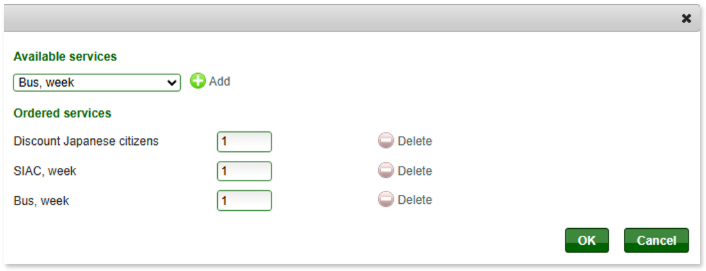
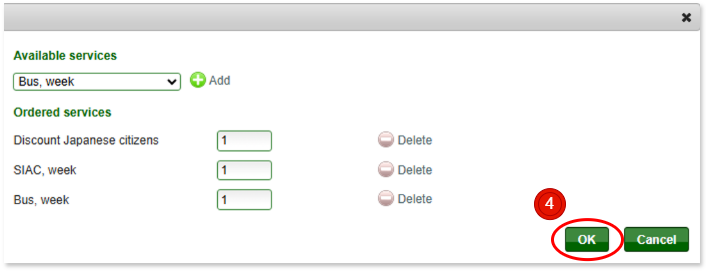
オプション追加のボタン操作順序修正

diff --git a/content/ja/travel/accommodation_directory.md b/content/ja/travel/accommodation_directory.md
@@ -37,16 +37,9 @@ modules: ["simple-datatables"]
 
 {{< accordion-item title="ホテルまたは旅館" show="false" >}}
 
-WMOC開催地域とその周辺には、様々な宿泊施設があります。
-
-まず、WMOC開催自治体に宿泊する方法があります。
-
-各自治体のウェブサイトをご覧ください。
+WMOC開催地域とその周辺には、様々な宿泊施設があります。まず、WMOC開催自治体に宿泊する方法があります。各自治体のウェブサイトをご覧ください。
 
 洋風ホテルや旅館は限られていますが、素敵な和風旅館や個人経営の民宿も見つかるかもしれません。
-
-一部の宿泊施設からは、有料の公式バスが運行しています。
-
 
 * **上町（スプリント、ミドルファイナル）**
 
@@ -60,18 +53,11 @@ https://visityabu.jp/
 
 https://www.kamikawa-navi.jp/en/
 
-2つ目の選択肢は、WMOC会場から15～30kmの距離にある、様々な和風宿泊施設が揃う有名な温泉地、**城崎温泉**です。
+2つ目の選択肢は、WMOC会場から15～30kmの距離にある、様々な和風宿泊施設が揃う有名な温泉地、**城崎温泉**です。城崎温泉には、洋風ホテルやベッド付きの和風旅館もあります。3つ目の選択肢は、WMOC会場から1.5～2時間の距離にある、様々なランクのホテルが多数ある地域の中核都市、**鳥取**または**姫路**に宿泊することです。
 
-城崎温泉には、洋風ホテルやベッド付きの和風旅館もあります。
+城崎温泉（2つ目の選択肢）、鳥取駅、姫路駅（3つ目の選択肢）から会場までのバス運行を予定しています。詳細は近日中に発表いたします。
 
-3つ目の選択肢は、WMOC会場から1.5～2時間の距離にある、様々なランクのホテルが多数ある地域の中核都市、**鳥取**または**姫路**に宿泊することです。
-
-城崎温泉（2つ目の選択肢）、鳥取駅、姫路駅（3つ目の選択肢）から会場までのバス運行を予定しています。
-
-詳細は近日中に発表いたします。
-
-WMOC 2027でお会いできることを楽しみにしております。
-ご質問等ございましたら、お気軽に**contact@wmoc2027.jp**までお問い合わせください。
+WMOC 2027でお会いできることを楽しみにしております。ご質問等ございましたら、お気軽に**contact@wmoc2027.jp**までお問い合わせください。
 
 > [!tip]
 > 旅館に関する詳細はこちら
@@ -110,12 +96,8 @@ https://travel.rakuten.com/
 
 >【注意】
 > この地域には洋風ホテルが限られています。
-> 大型ホテルは団体客で既に予約されている場合があります。姫路と鳥取には、洋風ホテルが十分にあります。
-> 日本の旅館は、料金に朝食と夕食が含まれている場合が多いです。
-> 夕食を抜いても宿泊できるところもありますので、各自ご確認ください。
-> 民宿（日本式のB&B）でも、夕食を提供しているところが多いです。
-> 宿泊施設によっては、公式バス出発地点までの送迎サービスを提供しているところもあります。
-> 詳細は9月に発表されます。
+> 大型ホテルは団体客で既に予約されている場合があります。姫路と鳥取には、洋風ホテルが十分にあります。日本の旅館は、料金に朝食と夕食が含まれている場合が多いです。夕食を抜いても宿泊できるところもありますので、各自ご確認ください。
+> 民宿（日本式のB&B）でも、夕食を提供しているところが多いです。宿泊施設によっては、公式バス出発地点までの送迎サービスを提供しているところもあります。
 
 ### 各自治体の観光情報
 

diff --git a/content/ja/get_started/entry.md b/content/ja/get_started/entry.md
@@ -85,15 +85,14 @@ IOF Eventor アカウントが必要です。下記記事を参考にIOF Eventor
    ![](image/entry_options/1_enter_options.png)
 
 2. 以下の手順に従ってください。
-   1. 既にオプションがある場合は、「+追加」ボタンを使用してオプション項目を追加してください。
-   2. 選択フィールドを開きます。
-   3. フィールドリストから「日本人割引」を選択します。
+   1. 選択フィールドを開きます。
+   2. フィールドリストから「日本国民割引」を選択します。
+   3. 他のオプションを追加する場合は、「+追加」ボタンを押してください。
+   4. すべてのオプションの追加が完了したら、「OK」ボタンを押してください。オプション編集ウィンドウが閉じます。
    ![](image/entry_options/2_add_and_select_options.png)
-
-3. 選択したオプションが一覧表示されます。
    ![](image/entry_options/3_options_list.png)
 
-4. オプションの選択が完了し、「次へ」ボタンを押すと、支払い確認画面が表示されます。「日本人割引」が項目に表示されていることを確認してください。
+3. オプションの選択が完了し、「次へ」ボタンを押すと、支払い確認画面が表示されます。「日本人割引」が項目に表示されていることを確認してください。
    ![](image/entry_options/4_confirm_options.png)
 
 > [!note]

diff --git a/content/zh-tw/travel/accommodation_directory.md b/content/zh-tw/travel/accommodation_directory.md
@@ -39,15 +39,9 @@ modules:
 
 {{< accordion-item title="酒店或日式旅館" show="false" >}}
 
-世界文化交流會舉辦地點及週邊地區有多種住宿選擇。
+世界文化交流中心舉辦地點及其周邊地區有多種住宿選擇。首先，您可以選擇住在舉辦地點所在的市町村。請查看各市町村的網站。
 
-第一個選擇是入住世界文化交流會主辦市町村。
-
-請參考以下市町村的網站。
-
-西式旅館或旅館數量有限，但您或許也能找到很棒的日式旅館（ryokan）或獨立經營的民宿（minshuku）。
-
-部分住宿地點提供付費的官方巴士。
+雖然西式旅館和旅館數量有限，但您或許可以找到一些溫馨的日式旅館或私人民宿。
 
 * **香美町（短距離賽、中距離決賽）**
 
@@ -120,14 +114,12 @@ https://travel.rakuten.com/
 
 日式旅館通常包含早餐和晚餐。部分旅館允許您不吃晚餐－請自行確認。民宿（日式住宿加早餐）通常也提供晚餐。部分住宿提供往返官方巴士出發點的接送服務。
 
-相關資訊將於九月公佈。
-
 ### 各地方政府旅遊訊息
 
 兵庫縣
 https://www.hyogo-tourism.jp/world/
 
-養父武市觀光協會
+養父市觀光協會
 https://www.yabu-kankou.jp/
 
 香美町

diff --git a/content/zh-tw/get_started/entry.md b/content/zh-tw/get_started/entry.md
@@ -98,15 +98,14 @@ flowchart LR
    ![](image/entry_options/1_enter_options.png)
 
 1. 請依照以下步驟操作：
-   1. 如果您已有選項，請先使用「+ 新增」按鈕新增選項。
-   2. 開啟選擇框。
-   3. 從選項清單中選擇「日本公民折扣」。
+   1. 開啟選擇框。
+   2. 從欄位清單中選擇「日本公民折扣」。
+   3. 如需新增其他選項，請點選「+ 新增」按鈕。
+   4. 新增完所有選項後，請點選「確定」按鈕。選項編輯視窗將關閉。
    ![](image/entry_options/2_add_and_select_options.png)
-
-1. 所選選項將顯示在清單中。
    ![](image/entry_options/3_options_list.png)
 
-1. 選擇完所有選項並點選「下一步」按鈕後，將出現付款確認頁面。請確保“日本公民折扣”已包含在選項清單中。
+2. 選擇完所有選項並點選「下一步」按鈕後，將出現付款確認頁面。請確保“日本公民折扣”已包含在選項清單中。
    ![](image/entry_options/4_confirm_options.png)
 
 > [!note]

diff --git a/content/en/get_started/entry.md b/content/en/get_started/entry.md
@@ -98,12 +98,11 @@ The entry fee for the tournament is 44,000 yen, but various options are availabl
   ![](image/entry_options/1_enter_options.png)
 
 1. Follow these steps:
-   1. If you already have options, first add an option item using the "+ Add" button.
-   2. Open the selection field.
-   3. Select "Discount Japanese citizens" from fields list.
+   1. Open the selection field.
+   2. Select "Discount Japanese citizens" from fields list.
+   3. If you would like to add other options, please press the "+ Add" button.
+   4. Once you have finished adding all the options, please press the OK button. The options editing window will close.
   ![](image/entry_options/2_add_and_select_options.png)
-
-1. The selected options will be listed.
   ![](image/entry_options/3_options_list.png)
 
 1. Once you have finished selecting your options and pressed the "Next" button, the payment confirmation screen will appear. Please make sure that "Japanese Discount" is displayed among the items.

diff --git a/content/en/travel/accommodation_directory.md b/content/en/travel/accommodation_directory.md
@@ -100,10 +100,7 @@ https://travel.rakuten.com/
 >  
 > Japanese inns often include breakfast and dinner in the price. Some allow you to skip dinner—please check individually.  
 >  
-> Minshuku (Japanese-style B&B) also often provide dinner.  
->  
-> Some accommodations provide transportation to/from the official bus departure points.  
-> Information will be announced in September.
+> Among Japanese-style inns, those privately owned and operated are called "minshuku". Many of these also offer dinner.
 
 ### Tourism Information of each local government
 Hyogo Prefecture  
